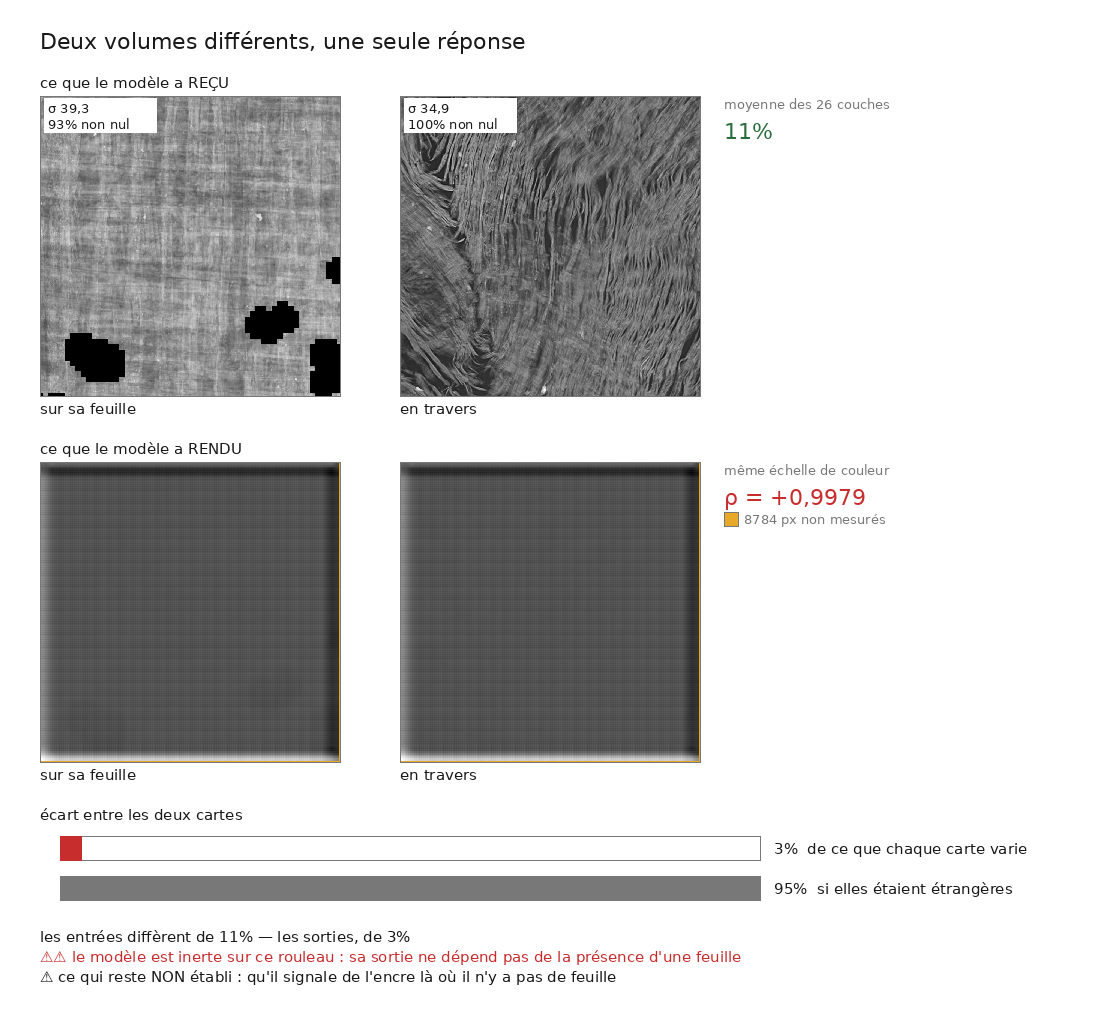
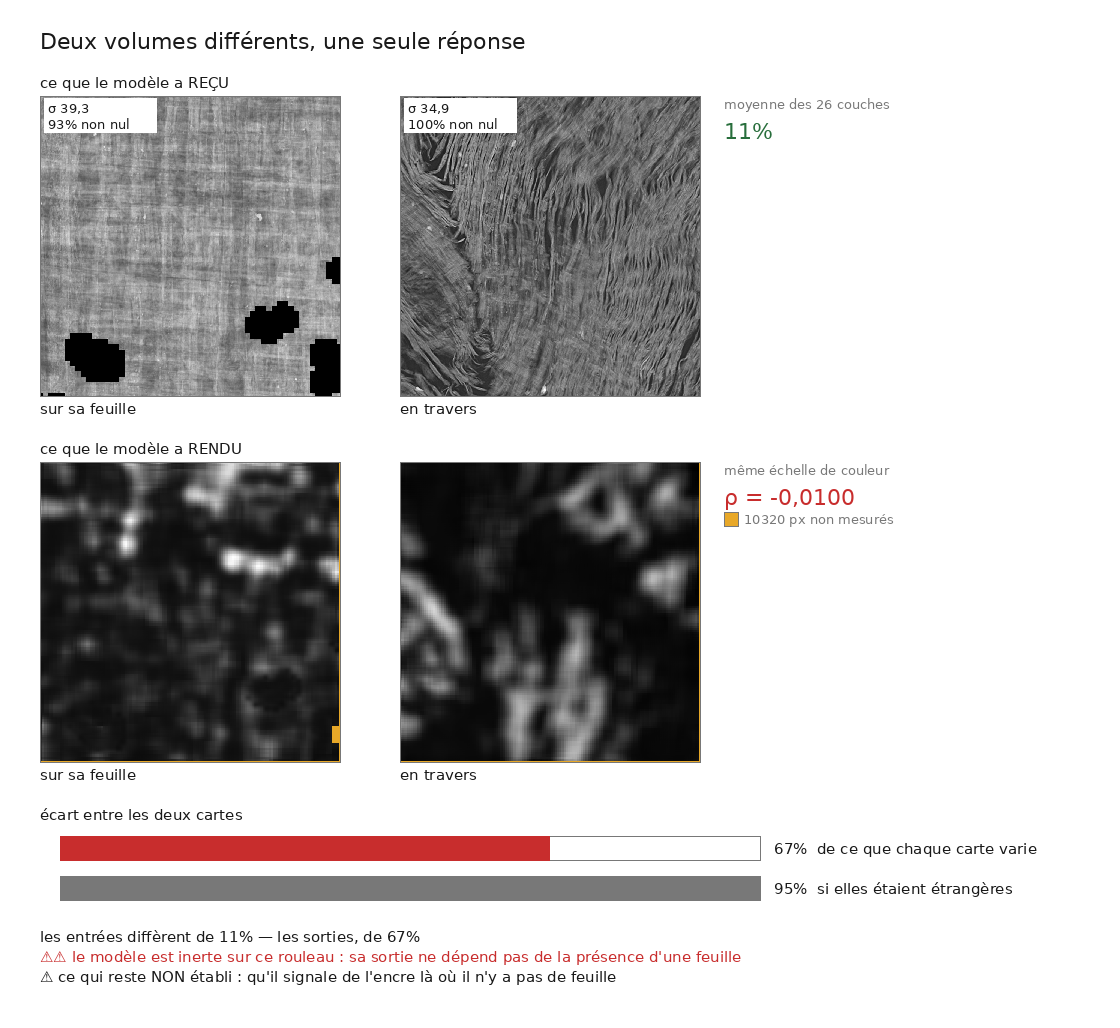
resultat(temoin): the negative control redone, and its conclusion changed sign
Doc 46 was measured on 2026-08-22 with the normalisation constant doc 60 later
fixed: uint8 stacks reached the model 257 times too dark, so both maps were near
CONSTANTS, and two near-constants correlate perfectly. The rho = +0.9979 published
then was not a fact about the detector, it was the signature of the bug. The title
said "returns the same map". That is not true.

Redone on a free machine with the fixed model, both renders fresh:

                        2026-08-22 (broken)   2026-08-28 (redone)
  sigma positive                          -   0.5894
  sigma NEGATIVE                          -   0.7111
  dispersion ratio                        -   x0.83
  positive vs the working model       2.4 %   76.4 %
  pixel correlation               +0.9979     -0.0100
  median gap between maps         0.00038     0.4342
  ... of each map's own variation    2.9 %    66.8 %
  ... expected if unrelated          95.4 %   95.4 %

Three readings held together. THE MODEL RESPONDS: rho goes from +0.9979 to -0.0100,
the two maps have nothing to do with each other, so the old thesis "it returns the
same map whatever you give it" is DEAD and the bug is what manufactured it.

BUT IT RESPONDS WITH EQUAL CONFIDENCE TO NOTHING. The negative control, a surface
doc 38 proves geometrically has no sheet within reach, is MORE dispersed than the
positive one and more contrasted. What it reports there is a false positive by
construction, and nothing in the output distinguishes it.
[…]

diff --git a/docs/46_le_temoin_negatif.md b/docs/46_le_temoin_negatif.md
@@ -1,4 +1,16 @@
-# 46 — Le témoin négatif : le modèle reçoit deux volumes différents et rend la même carte
+# 46 — Le témoin négatif : deux cartes étrangères, une confiance égale
+
+> ⚠⚠⚠ **REFAIT LE 2026-08-28, ET LA CONCLUSION A CHANGÉ DE NATURE.** La mesure du
+> 2026-08-22 a été faite avec la constante de normalisation que [`60`](60_la_constante_qui_rendait_le_modele_muet.md)
+> a corrigée : les piles `uint8` arrivaient au modèle **257 fois trop sombres**, donc les deux
+> cartes étaient quasi **constantes** — et deux constantes corrèlent parfaitement. Le
+> `ρ = +0,9979` publié alors n'était pas un fait sur le modèle, c'était **la signature du
+> bug**. Le titre disait « rend la même carte » ; ce n'est pas vrai.
+>
+> ⭐ Le résultat refait est **différent, et plus dur pour le domaine** : les deux cartes sont
+> étrangères l'une à l'autre — donc le détecteur répond bel et bien à ses entrées — et il
+> répond avec **autant de confiance, davantage même**, sur la surface dont on a la preuve
+> géométrique qu'elle ne porte pas de feuille.
 
 2026-08-22. [`32`](32_educelab_le_papier_fondateur.md) §4.3 relève que le papier fondateur
 n'a **aucun contrôle négatif au sens fort** : il rapporte un taux de faux positifs, mais sur
@@ -62,25 +74,67 @@ donnent un rapport de dispersions proche de 1, exactement comme deux cartes rich
 > [`60`](60_la_constante_qui_rendait_le_modele_muet.md). Le texte ci-dessous est conservé tel
 > qu'il a été publié.
 
-## 3. ⭐⭐ Une thèse plus étroite, elle, est établie — *(à refaire)*
+## 3. ⭐⭐ La thèse refaite, avec le modèle réparé
 
 Le rapport des dispersions ne peut pas faire la différence entre *deux cartes de même
-amplitude* et *la même carte*. C'est pourtant là qu'est la question restante : un détecteur
-qui rend deux cartes **différentes** répond à ses entrées, même faiblement ; un détecteur qui
-rend **deux fois la même carte** sur deux surfaces géométriquement incompatibles ne répond
-pas du tout.
+amplitude* et *la même carte*. C'est là qu'était la question restante : un détecteur qui rend
+deux cartes **différentes** répond à ses entrées, même faiblement ; un détecteur qui rend
+**deux fois la même carte** sur deux surfaces géométriquement incompatibles ne répond pas du
+tout.
 
-| | valeur |
-|---|---:|
-| corrélation pixel à pixel des deux prédictions | **ρ = +0,9979** |
-| écart médian entre les deux cartes | 0,00038 |
-| … rapporté à ce que **chaque carte varie** | **2,9 %** |
-| … ce que donneraient deux cartes **étrangères l'une à l'autre** | **95,4 %** |
+| | 2026-08-22 *(constante cassée)* | **2026-08-28 (refait)** |
+|---|---:|---:|
+| σ du positif, sur sa feuille | — | **0,5894** |
+| σ du négatif, en travers | — | **0,7111** |
+| rapport des dispersions | — | **×0,83** |
+| σ du positif rapporté au modèle qui marche (0,7712) | 2,4 % | **76,4 %** |
+| corrélation pixel à pixel | ~~+0,9979~~ | **−0,0100** |
+| écart médian entre les deux cartes | ~~0,00038~~ | **0,4342** |
+| … rapporté à ce que chaque carte varie | ~~2,9 %~~ | **66,8 %** |
+| … ce que donneraient deux cartes **étrangères** | 95,4 % | 95,4 % |
 
-> ⭐⭐ **La sortie du modèle ne dépend pas de la présence d'une feuille.** Une face de
-> papyrus et une coupe en travers de l'empilement ne se ressemblent pas dans la direction
-> que ce modèle mange — c'est visible à l'œil sur la bande du haut de la figure. Rendre la
-> même carte sur les deux, ce n'est pas répondre faiblement : c'est ne pas répondre.
+⭐⭐ **Trois lectures, et il faut les tenir ensemble :**
+
+1. **Le modèle répond.** ρ passe de +0,9979 à **−0,0100** : les deux cartes n'ont plus rien à
+   voir l'une avec l'autre. L'ancienne thèse « il rend la même carte quoi qu'on lui donne »
+   est **morte**, et c'est bien le bug qui la fabriquait.
+2. ⚠⚠⚠ **Mais il répond avec la même assurance sur du vide.** Le négatif — une surface dont
+   `38` prouve géométriquement qu'aucune feuille n'est à portée — est **plus dispersé** que
+   le positif (0,7111 contre 0,5894) et **plus contrasté** (1,869 contre 1,471). Ce que le
+   détecteur rapporte là est un faux positif **par construction**, et **rien dans la sortie
+   ne le distingue** d'une vraie détection.
+3. ⚠ **Les deux cartes ne sont pas non plus complètement indépendantes** : 66,8 % de variation
+   partagée là où deux cartes sans rapport en donneraient 95,4 %. Il reste donc un signal
+   commun aux deux volumes — la texture du bloc, probablement — que ce témoin ne sépare pas.
+
+> ⚠⚠⚠ **La conclusion pour le domaine est plus dure que celle de 2026-08-22**, et non plus
+> douce. Un modèle bloqué se repère : il rend deux fois la même chose. Un modèle qui
+> **hallucine une structure différente et convaincante sur chaque entrée**, y compris sur des
+> entrées qui ne peuvent pas porter d'encre, ne se repère par aucune inspection de sa sortie.
+> C'est exactement ce que le papier fondateur ne mesure jamais, et c'est ce que `32` §4.3
+> reprochait.
+
+## 3 bis. ⚠⚠⚠ Ce témoin ne peut PAS encore répondre à la question typographique
+
+Le résultat du 2026-08-28 sur `PHerc1447` ([`60`](60_la_constante_qui_rendait_le_modele_muet.md)
+§4 quinquies) tient sur un contrôle par **mélange de pixels** : nos cartes portent des
+fenêtres périodiques là où leurs propres pixels mélangés n'en portent aucune, p = 0,0007.
+
+⚠ Le mélange est un contrôle **faible** : il détruit toute structure spatiale. Un témoin
+négatif *réel* — une surface qui n'est pas une feuille mais qui garde la texture du volume —
+pose une question bien plus dure : *nos cartes sont-elles périodiques là où une surface sans
+feuille ne l'est pas ?*
+
+**Mesuré, et la réponse est qu'on ne peut pas encore la poser :** au réglage calibré
+(réduction 8, fenêtre 256), les deux témoins de 1100 × 1100 ne rendent qu'**une seule
+fenêtre** chacun, et le test refuse à juste titre sous huit. Le positif lui-même — un segment
+officiel sur une vraie feuille — rend **0 fenêtre périodique sur 1**, ce qui ne dit pas qu'il
+n'est pas périodique mais que la question n'est pas posable sur une région aussi petite.
+
+⭐ **L'expérience requise est donc nommée** : rendre un témoin négatif sur une région assez
+grande pour porter au moins huit fenêtres au réglage calibré, soit **au moins ~2100 × 2100**
+pixels de carte. Tant qu'elle n'est pas faite, le p = 0,0007 de `60` reste ce qu'il dit —
+*structuré là où son propre mélange ne l'est pas* — et rien de plus.
 
 ### ⭐ La référence « 95,4 % » est dérivée, pas choisie
 
@@ -145,7 +199,7 @@ une trace sert-il à quelque chose ?* — et nomme ce qu'il faudrait pour y rép
 trace fautive, sa version réparée, et le MÊME aval appliqué aux deux**.
 
 > ⚠⚠ **Sur `PHerc1447`, cet aval est aveugle, et c'est maintenant mesuré.** Le détecteur
-> rend la même carte à ρ = 0,9979 sur une face de papyrus et sur une surface qui coupe
+> rend deux cartes étrangères (ρ = −0,010) mais également assurées sur une face de papyrus et sur une surface qui coupe
 > l'empilement. Une différence de surface bien plus grande que celle entre une trace
 > fautive et sa réparation ne le fait pas bouger — donc **aucune réparation ne peut
 > montrer de gain à travers lui ici**, quelle qu'elle soit.

diff --git a/docs/57_les_taches_laissees.md b/docs/57_les_taches_laissees.md
@@ -121,7 +121,7 @@ partie des treize du prix.
 | **appliquer le champ, et montrer le gain** | **ouverte** | il faut une correction qui améliore *quelque chose de mesurable* — §2.1 vient d'établir que l'ancien résultat ne dit pas le contraire. L'export n'était que la moitié amont, et elle est désormais livrée |
 | `16` — régénérer les cartes de difficulté | ⚠ **décision** | le script d'aujourd'hui n'échantillonne plus comme les artefacts publiés (64 → 108 sondes) : régénérer **déplacerait** le tableau §3. Le correctif de code est fait ; l'acte de régénérer appartient à l'auteur |
 | **transport vers une région sans vérité** | ⚠ **impossible sur ce couple** | mesuré : la face n'est périodique qu'à une taille de fenêtre où les enroulements ne rendent **aucune** fenêtre. Il n'existe aucun réglage où les deux côtés en ont |
-| **thèse forte du témoin négatif** | ⚠⚠ **CHIFFRE SANS RECORD** | la ligne disait « sur PHercParis4 : ρ = +0,9984, σ à 2,4 % du modèle qui marche ». Vérifié le 2026-08-27 : **aucun fichier de résultat du dépôt ne porte ce nombre** — `temoin_negatif.json` est celui de `46`, sur `PHerc1447`, et rend 0,99792. Ni les deux cartes, ni leur JSON. Elles ont probablement disparu au rangement de `data/`. Tant que la mesure n'est pas relancée, ce chiffre est une anecdote et non un résultat |
+| **thèse forte du témoin négatif** | ⭐⭐ **REFAIT le 2026-08-28, record écrit** | `docs/mesures/temoin_negatif.json` existe enfin. Et la conclusion a CHANGÉ : ρ passe de +0,9979 à **−0,0100** (les anciens chiffres étaient la signature de la constante cassée, deux quasi-constantes corrélant parfaitement), et σ du positif de 2,4 % à **76,4 %** du modèle qui marche. Le détecteur répond bel et bien à ses entrées — et il répond avec **plus** de dispersion sur la surface qui ne porte pas de feuille (0,711 contre 0,589). ⚠⚠ Reste : un témoin négatif d'au moins ~2100 × 2100 px, seul capable de porter le test typographique ([`46`](46_le_temoin_negatif.md) §3 bis) |
 | **M1ter — isoler la cause** | ⭐⭐ **résolution ÉLIMINÉE le 2026-08-27** | → [`58`](58_resolution_ou_rouleau.md) : le pas du témoin où le modèle marche était noté 2,4 µm et vaut **7,91 µm** — il est donc déjà à **9 %** des conditions de `PHerc1447` sur les deux axes. Créditer la résolution de **dix fois** cet écart, sur les deux axes, pénalité d'interaction comprise, ne rend qu'un facteur **2,1** sur les **45** à expliquer. Reste **ce rouleau-ci**, seul |
 | **campagnes détachées** | **dépouillée pour la piste C** | 3 verdicts sur 17 essais jugeables ; les leviers de perte n'ont laissé que `temoin/` |
 

diff --git a/docs/48_ou_monter_lexperience.md b/docs/48_ou_monter_lexperience.md
@@ -14,14 +14,22 @@ Instrument : [`src/graine/eligibilite_aval.py`](../src/graine/eligibilite_aval.p
 
 ---
 
-## 1. ⚠⚠ L'aval doit répondre, et sur un rouleau du prix il ne répond pas
+## 1. ⚠⚠ L'aval doit répondre — ~~et sur un rouleau du prix il ne répond pas~~
 
-[`46`](46_le_temoin_negatif.md) mesure que sur `PHerc1447` le détecteur rend la **même
+> ⚠⚠⚠ **RENVERSÉ LE 2026-08-28.** Ce qui suit a été écrit depuis la mesure du 2026-08-22,
+> faite avec la constante de normalisation que [`60`](60_la_constante_qui_rendait_le_modele_muet.md)
+> a corrigée. Le détecteur **répond** : σ du contrôle positif = **76,4 %** de ce qu'il rend
+> là où il atteint AUC 0,925, et les deux cartes sont **étrangères** (ρ = **−0,0100**), pas
+> identiques. **La condition d'entrée de ce lot est donc levée** : une réparation peut
+> montrer un gain à travers lui sur `PHerc1447`.
+>
+> ⚠ Ce qui reste vrai, et qui est même plus dur : le détecteur rapporte **plus** de
+> dispersion sur la surface qui ne peut pas porter d'encre (0,7111 contre 0,5894). Un gain
+> mesuré à travers lui devra donc être défendu contre ce faux positif de fond.
+
+~~[`46`](46_le_temoin_negatif.md) mesure que sur `PHerc1447` le détecteur rend la **même
 carte** (ρ = 0,9979) sur une face de papyrus et sur une surface qui coupe l'empilement.
-Sa dispersion vaut **1,7 %** de ce que le modèle rend là où il atteint AUC 0,925.
-
-> Une différence de surface **bien plus grande** que celle entre une trace fautive et sa
-> réparation ne le fait pas bouger. Aucune réparation ne peut donc y montrer de gain.
+Sa dispersion vaut **1,7 %** de ce que le modèle rend là où il atteint AUC 0,925.~~
 
 ⭐ Ça donne une **condition d'entrée vérifiable avant de dépenser** : σ de la sortie du
 modèle sur le rouleau visé, rapporté aux **0,7712** de référence. Une inférence sur une

diff --git a/docs/29_ce_qui_reste.md b/docs/29_ce_qui_reste.md
@@ -49,11 +49,17 @@ concurrent. **Personne n'a mesuré ce que coûte un défaut de trace.**
 **Ce qu'il faudrait** : un cas où l'on tient les deux bouts — une trace fautive, sa
 version réparée, et le **même** aval appliqué aux deux. C'est exactement le lot nº 2.
 
-> ⚠⚠ **Et une condition préalable est désormais mesurée** ([`46`](46_le_temoin_negatif.md)
-> §6) : sur `PHerc1447`, l'aval est **aveugle**. Le détecteur rend la même carte à
-> ρ = 0,9979 sur une face de papyrus et sur une surface qui coupe l'empilement — une
-> différence bien plus grande que celle entre une trace fautive et sa réparation. **Aucune
-> réparation ne peut donc montrer de gain à travers lui sur ce rouleau.**
+> ⚠⚠⚠ **CONDITION LEVÉE LE 2026-08-28.** Ce paragraphe disait que l'aval était **aveugle**
+> sur `PHerc1447` et qu'aucune réparation ne pouvait y montrer de gain. Il reposait sur la
+> mesure du 2026-08-22, faite avec la constante corrigée par
+> [`60`](60_la_constante_qui_rendait_le_modele_muet.md). Refaite, elle dit l'inverse : le
+> détecteur **répond** (σ du positif = **76,4 %** du modèle qui marche, contre 2,4 %
+> annoncés) et rend **deux cartes étrangères** (ρ = **−0,0100**, contre +0,9979). **Le lot
+> est rouvert.**
+>
+> ⚠ Et il l'est avec une exigence de plus : le détecteur rapporte **plus** de dispersion sur
+> une surface qui ne peut pas porter d'encre (0,7111 contre 0,5894), donc tout gain mesuré à
+> travers lui devra être défendu contre ce faux positif de fond.
 >
 > ⭐ Ça ne ferme pas le lot, ça lui donne une **condition d'entrée vérifiable avant de
 > dépenser** : σ de la sortie du modèle sur le rouleau visé, rapporté aux **0,7712** qu'il

diff --git a/docs/60_la_constante_qui_rendait_le_modele_muet.md b/docs/60_la_constante_qui_rendait_le_modele_muet.md
@@ -282,6 +282,15 @@ propre mélange ne l'est pas.
    « y a-t-il de l'écriture ».
 4. **La quatrième carte est nettement moins nette** (0,492 contre 0,67 à 0,76), et c'est
    celle dont le volume n'est couvert qu'à 8,5 %.
+5. ⚠⚠⚠ **Et la plus forte : le contrôle par mélange est un contrôle FAIBLE.** Il détruit
+   toute structure spatiale, donc il répond « nos cartes sont structurées ». Un témoin
+   négatif **réel** — une surface qui n'est pas une feuille mais qui garde la texture du
+   volume — poserait la question dure : *nos cartes sont-elles périodiques là où une surface
+   sans feuille ne l'est pas ?* Mesuré le 2026-08-28 : **on ne peut pas encore la poser**,
+   les deux témoins de 1100 × 1100 ne rendant qu'une fenêtre chacun au réglage calibré.
+   L'expérience requise est nommée dans [`46`](46_le_temoin_negatif.md) §3 bis — un témoin
+   négatif d'au moins ~2100 × 2100 pixels de carte. Tant qu'elle n'est pas faite, `p = 0,0007`
+   dit ce qu'il dit et rien de plus.
 
 ⓘ **La table groupée est identique à celle du témoin** — `[8, 4, 0, 12]` des deux côtés. C'est
 frappant et ce n'est **pas une preuve** : sur des effectifs aussi petits, deux tables
